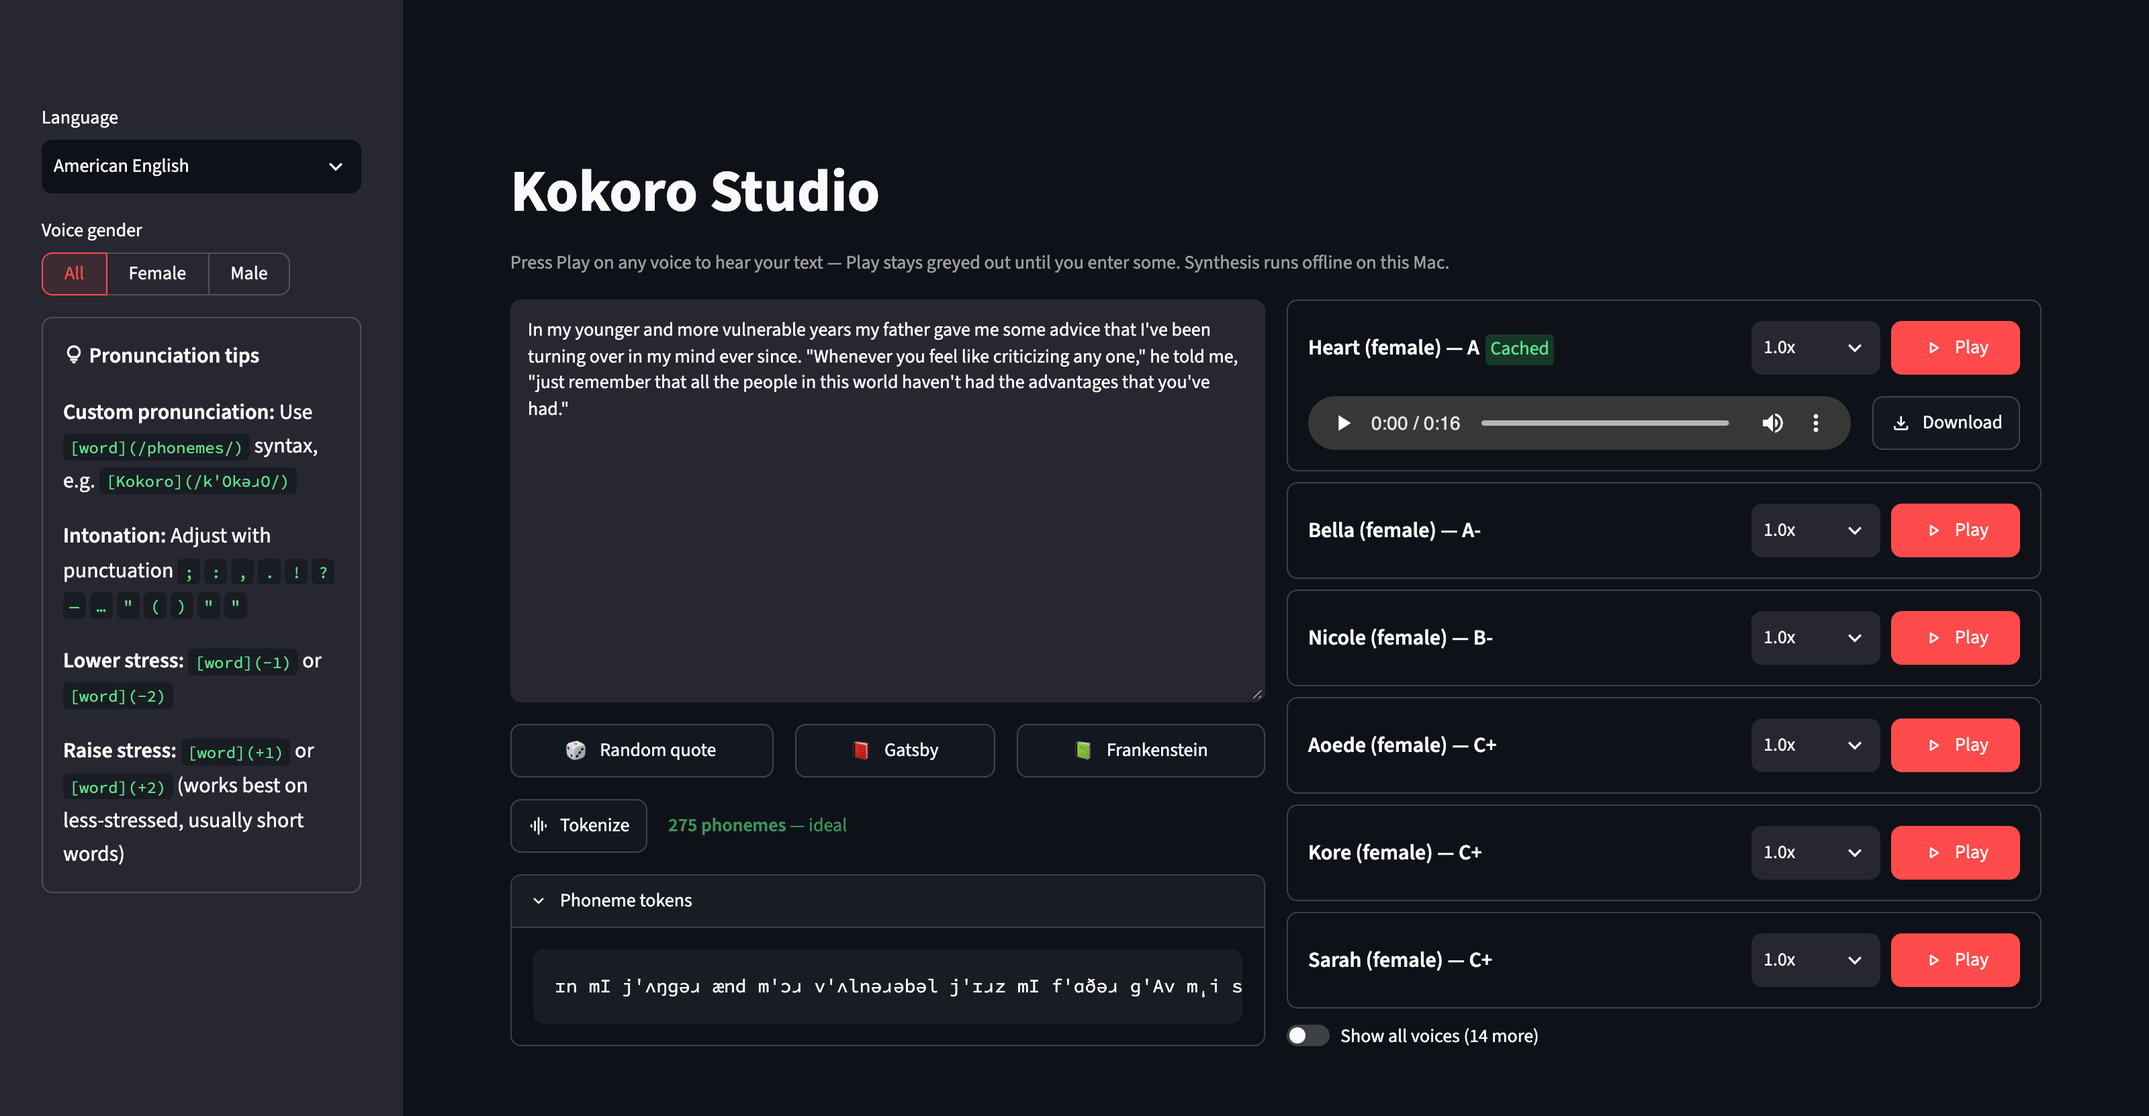
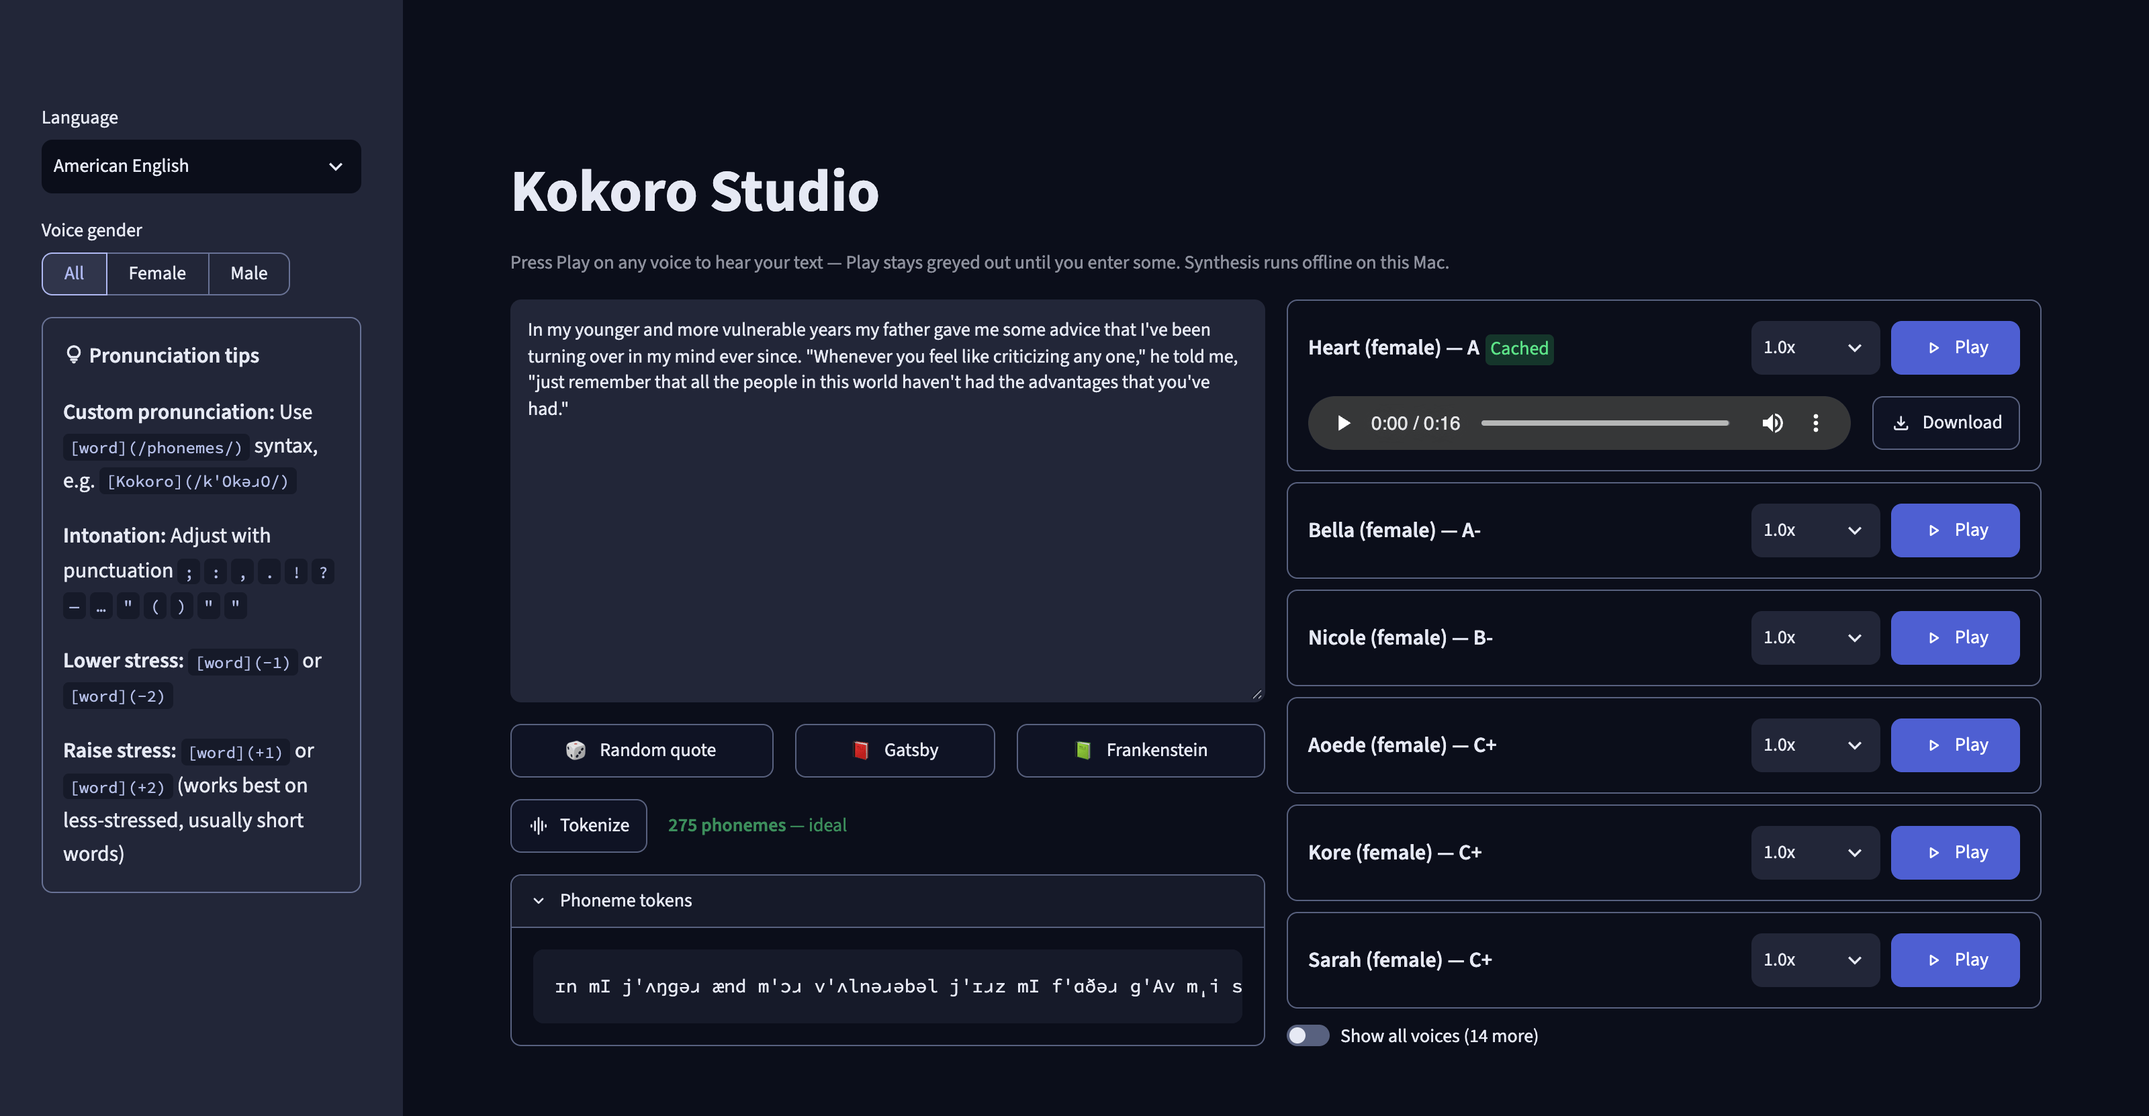
feat: add an indigo dark theme
The app shipped no theme, so dark mode was Streamlit's stock palette.
Measured in a real browser, stock dark has four contrast failures: the
Play label on #ff4b4b is 3.3:1, the card borders and the "Show all
voices" toggle's off-state track are 1.81:1, and the red length-caption
band ("very short" / "will be chunked") draws at 3.14:1. That last one
is only visible once st.caption's 0.6 opacity is counted; the CSS
colour on its own reads 11:1.

"Ai-iro" is an indigo palette set in [theme.dark] and
[theme.dark.sidebar] only. It has an indigo-black page, a slate-indigo
sidebar and surfaces, cool off-white text, and a #4e5fd2 accent. The
Play label is now 5.4:1, borders and the toggle track 3.14:1, and the
red band 4.67:1 as drawn. Inline code moves from green to pale indigo,
so green now only means status. It was picked from four rendered
directions scored by a three-lens judge panel. It carries on the
retired "Kokoro indigo", and it is the only direction whose contrast
can be tested from the TOML alone.

- The sidebar takes a lighter periwinkle accent. The selected segment
  draws its label in the primary colour, and on a near-black page no
  single colour gives both a white Play label and primary-coloured
  text 4.5:1 (the ceiling is about 4.2:1).
- Light mode stays stock. Streamlit's docs say the mode menu needs both
  [theme.light] and [theme.dark], but the 1.64 frontend builds every
  variant when either one is non-empty. A browser render confirmed the
[…]

diff --git a/tests/test_streamlit_app.py b/tests/test_streamlit_app.py
@@ -2519,10 +2519,50 @@ class TestNextAudioSeq:
 
 
 class TestStreamlitConfig:
-    """Guard the shipped .streamlit/config.toml — both the disabled file watcher
-    and the deliberately absent [theme] section. This docstring is the one
+    """Guard the shipped .streamlit/config.toml: the disabled file watcher, the
+    telemetry opt-out, and the "Ai-iro" dark theme. This docstring is the one
     authoritative statement of the theming decision; config.toml and CLAUDE.md
-    point here rather than restating it."""
+    point here rather than restating it.
+
+    **Dark mode only.** Streamlit 1.64's frontend builds its Light/Dark/System
+    variants whenever *either* [theme.light] or [theme.dark] is non-empty (not
+    only when both are), and fills every unset key from that mode's stock base.
+    So a lone [theme.dark] keeps the mode menu and leaves light mode on the
+    stock theme with nothing hand-copied: a browser render compared every
+    probed light-mode colour with the no-theme build and found them identical.
+    A root [theme] key would restyle light mode too, and a bare [theme] block
+    pins the app to one mode with no error. No font keys either: Streamlit
+    self-hosts its default fonts, and a Google Fonts URL is an outbound request
+    on every page load, which breaks README's "no network calls".
+
+    **Two accents, one hue.** Primary buttons (Play) always draw a white label
+    on `primaryColor`, and the selected "Voice gender" segment draws its label
+    *in* `primaryColor`. On a near-black page no single colour clears 4.5:1 for
+    both (the ceiling is about 4.2:1). The sidebar has no primary buttons, so
+    [theme.dark.sidebar] carries a lighter periwinkle of the main indigo.
+
+    **The page colours are pinned on purpose.** Every contrast pair below can
+    then be computed from this file alone. Leaving them unset would track
+    Streamlit's stock dark palette, but these tests could then check nothing
+    without hand-copying that palette, which drifts across releases.
+
+    Measured facts the maths relies on (Streamlit 1.64, pixel-sampled):
+    captions draw at opacity 0.6; the sidebar's background is
+    `secondaryBackgroundColor` unless [theme.dark.sidebar] sets its own; the
+    selected segment fills with its primary at 10% alpha; and `borderColor` is
+    also the st.toggle off-state track, so it must meet WCAG 1.4.11's 3:1.
+    `orangeTextColor` and `greenTextColor` stay stock and measured 4.70 / 4.80
+    as captions on this page; stock red measured 3.14, hence `redTextColor`.
+    Nothing here can see the two stock shades, so re-measure them — and
+    re-confirm the either-block rule and an unchanged light mode — after a
+    Streamlit upgrade.
+    """
+
+    # Every 0.6-opacity pair: the orientation caption, the "speed changed"
+    # caption, and _render_length_caption's colour bands.
+    CAPTION_OPACITY: ClassVar[float] = 0.6
+    # The selected segment's fill is its primary colour at this alpha.
+    SEGMENT_TINT: ClassVar[float] = 0.1
 
     @staticmethod
     def _repo_root() -> Path:
@@ -2538,6 +2578,50 @@ class TestStreamlitConfig:
         with path.open("rb") as f:
             return tomllib.load(f)
 
+    def _dark(self) -> dict[str, Any]:
+        return self._load_config()["theme"]["dark"]
+
+    def _sidebar(self) -> dict[str, Any]:
+        """The dark sidebar's effective colours, falling back as Streamlit does."""
+        dark = self._dark()
+        own = dark.get("sidebar", {})
+        return {
+            "backgroundColor": own.get(
+                "backgroundColor", dark["secondaryBackgroundColor"]
+            ),
+            "primaryColor": own.get("primaryColor", dark["primaryColor"]),
+            "borderColor": own.get("borderColor", dark["borderColor"]),
+        }
+
+    @staticmethod
+    def _contrast(fg: str, bg: str, alpha: float = 1.0) -> float:
+        """WCAG 2 contrast ratio of `fg`, drawn at `alpha` over `bg`."""
+
+        def rgb(hex_color: str) -> tuple[int, ...]:
+            h = hex_color.lstrip("#")
+            return tuple(int(h[i : i + 2], 16) for i in (0, 2, 4))
+
+        def luminance(channels: tuple[float, ...]) -> float:
+            lin = [
+                c / 12.92 if c <= 0.04045 else ((c + 0.055) / 1.055) ** 2.4
+                for c in (v / 255 for v in channels)
+            ]
+            return 0.2126 * lin[0] + 0.7152 * lin[1] + 0.0722 * lin[2]
+
+        back = rgb(bg)
+        drawn = tuple(
+            f * alpha + b * (1 - alpha) for f, b in zip(rgb(fg), back, strict=True)
+        )
+        hi, lo = sorted((luminance(drawn), luminance(back)), reverse=True)
+        return (hi + 0.05) / (lo + 0.05)
+
+    def _tint(self, color: str, over: str, alpha: float) -> str:
+        """`color` composited at `alpha` over `over`, as a hex string."""
+        c = [int(color.lstrip("#")[i : i + 2], 16) for i in (0, 2, 4)]
+        o = [int(over.lstrip("#")[i : i + 2], 16) for i in (0, 2, 4)]
+        mixed = (round(a * alpha + b * (1 - alpha)) for a, b in zip(c, o, strict=True))
+        return "#" + "".join(f"{v:02x}" for v in mixed)
+
     def test_file_watcher_stays_disabled(self) -> None:
         # README's troubleshooting table tells users edits don't auto-reload
         # because of this; it is a server setting, not a theme one.
@@ -2552,24 +2636,68 @@ class TestStreamlitConfig:
         config = self._load_config()
         assert config.get("browser", {}).get("gatherUsageStats") is False
 
-    def test_ships_no_custom_theme(self) -> None:
-        # The app renders in Streamlit's stock light and dark themes, whose
-        # defaults already supply both modes, the toolbar toggle, and the
-        # per-mode red/orange/green that _render_length_caption's bands use.
-        #
-        # This asserts absence deliberately, in the same spirit as
-        # TestReleaseWorkflow.test_tag_triggered_release_workflow_stays_retired:
-        # the decision is that no theme ships, and a *partial* theme is the way
-        # that decision breaks silently — Streamlit keeps the light/dark toggle
-        # only when a custom theme defines both [theme.light] and [theme.dark],
-        # so a bare [theme] block pins the app to one mode with no error. Any
-        # deliberate return to theming updates this test, README's feature list,
-        # and CLAUDE.md's Configuration section together.
-        config = self._load_config()
-        assert "theme" not in config, (
-            "config.toml defines a custom [theme]; the app is meant to render "
-            "in Streamlit's default light and dark themes"
+    def test_only_dark_mode_is_themed(self) -> None:
+        # Any root [theme] key, a [theme.light], or a mode-less [theme.sidebar]
+        # would restyle stock light mode as well.
+        theme = self._load_config().get("theme", {})
+        assert set(theme) == {"dark"}, (
+            f"[theme] may hold only the dark block, found {sorted(theme)}"
         )
+        nested = {k for k, v in theme["dark"].items() if isinstance(v, dict)}
+        assert nested <= {"sidebar"}, f"unexpected sub-tables: {sorted(nested)}"
+
+    def test_theme_loads_nothing_remote(self) -> None:
+        # A font key, or any URL (Google Fonts, a remote `base`), is a network
+        # request on every page load.
+        dark = self._dark()
+        for section in (dark, dark.get("sidebar", {})):
+            for key, value in section.items():
+                assert "font" not in key.lower(), f"font key {key!r} in the theme"
+                assert "://" not in str(value), f"{key} loads {value!r}"
+
+    def test_play_label_reads_on_the_accent(self) -> None:
+        # Streamlit always draws a primary button's label white.
+        assert self._contrast("#ffffff", self._dark()["primaryColor"]) >= 4.5
+
+    def test_accent_and_borders_meet_non_text_contrast(self) -> None:
+        # WCAG 1.4.11: Play's fill and the toggle's on-track are the accent,
+        # and the toggle's off-track is borderColor. The sidebar's segment and
+        # tips-box borders sit on the lighter sidebar, hence their own colour.
+        dark, sidebar = self._dark(), self._sidebar()
+        page = dark["backgroundColor"]
+        assert self._contrast(dark["primaryColor"], page) >= 3.0
+        assert self._contrast(dark["borderColor"], page) >= 3.0
+        assert self._contrast(sidebar["borderColor"], sidebar["backgroundColor"]) >= 3.0
+
+    def test_selected_segment_label_reads_in_the_sidebar(self) -> None:
+        # The selected "Voice gender" segment draws its label in the sidebar
+        # primary, over that same colour at 10% on the sidebar background.
+        sidebar = self._sidebar()
+        fill = self._tint(
+            sidebar["primaryColor"], sidebar["backgroundColor"], self.SEGMENT_TINT
+        )
+        assert self._contrast(sidebar["primaryColor"], fill) >= 4.5
+
+    def test_text_reads_on_every_surface(self) -> None:
+        # Body text gets AAA on the page and AA on the raised surfaces (the
+        # sidebar, the text area). Inline code sits on a background Streamlit
+        # derives between the two, so clearing both bounds it.
+        dark = self._dark()
+        page, raised = dark["backgroundColor"], dark["secondaryBackgroundColor"]
+        assert self._contrast(dark["textColor"], page) >= 7.0
+        assert self._contrast(dark["textColor"], raised) >= 4.5
+        for surface in (page, raised):
+            assert self._contrast(dark["codeTextColor"], surface) >= 4.5
+
+    def test_captions_read_at_their_drawn_opacity(self) -> None:
+        # Captions draw at 0.6 opacity, so their CSS colour overstates the
+        # contrast actually shown. Stock redTextColor drew the "very short" and
+        # "will be chunked" bands at 3.14:1, which is why the key is set.
+        dark = self._dark()
+        page = dark["backgroundColor"]
+        assert "redTextColor" in dark, "stock red draws captions at ~3.1:1"
+        for key in ("textColor", "redTextColor"):
+            assert self._contrast(dark[key], page, self.CAPTION_OPACITY) >= 4.5, key
 
 
 class TestProjectMetadata:

diff --git a/scripts/capture_screenshot.py b/scripts/capture_screenshot.py
@@ -11,8 +11,9 @@ This is a script rather than a paragraph of instructions because all nine ways
 it goes wrong produce a *plausible but wrong image* instead of an error:
 
 * `embed_options=dark_theme` is a no-op, so dark mode is forced by emulating the
-  browser's colour scheme. That is also the honest path: the app ships no theme
-  and follows the system setting, so this is what a dark-mode user really sees.
+  browser's colour scheme. That is also the honest path: the app follows the
+  system setting (only its dark theme is custom), so this is what a dark-mode
+  user really sees.
 * Chrome's own `--headless --screenshot --virtual-time-budget` captures the
   skeleton loader — virtual time advances timers but never Streamlit's websocket
   handshake. Every wait below is therefore on a real selector.

diff --git a/CLAUDE.md b/CLAUDE.md
@@ -50,11 +50,13 @@ Changing the pin makes the next `uv sync` rebuild the venv, which discards the ~
 
 `pyproject.toml` — project metadata, dependencies, dependency groups, ruff isort (`combine-as-imports`), pytest (`pythonpath`, `testpaths`), ty (`python-version = "3.12"`).
 
-`.streamlit/config.toml` — `[server] fileWatcherType = "none"` and, deliberately, **no `[theme]` section**: the app renders in Streamlit's stock light and dark themes. `TestStreamlitConfig` guards both settings and is the single authoritative statement of why; don't restate it here or in the config comment. Streamlit's own default palettes live in its frontend bundle, not in `config.py`, so never hand-copy their hex values into this file or these docs — name the option keys instead.
+`.streamlit/config.toml` — `[server] fileWatcherType = "none"`, `[browser] gatherUsageStats = false`, and the **"Ai-iro" dark theme**: a `[theme.dark]` block plus `[theme.dark.sidebar]`, and deliberately nothing else under `[theme]`, so light mode stays Streamlit's stock theme and the System/Light/Dark menu survives. `TestStreamlitConfig` guards every setting and its docstring is the single authoritative statement of why (the two sidebar accents, the pinned page colours, the 0.6 caption opacity); don't restate it here or in the config comment. Streamlit's own default palettes live in its frontend bundle, not in `config.py`, so never hand-copy their hex values into this file or these docs — name the option keys instead. The dark theme pins its own page colours for exactly that reason: its contrast tests compute every pair from the TOML alone.
 
-Two properties of the stock theme are worth knowing before anyone treats them as bugs in this repo. Default `primaryColor` renders **#ff4b4b** (pixel-sampled, not inferred), which is ~3.3:1 against the white button text — below WCAG AA's 4.5:1 for normal text, where the retired indigo was 6.29:1. In light mode that same #ff4b4b is also the default `redColor`, but `_render_length_caption`'s red band is not drawn in it: `:red[…]` text uses `redTextColor`, a separate text shade — darker than `redColor` in light mode and lighter in dark (see that option's description in Streamlit's `config.py`) — so the band never matches the Play buttons. And the stock `st.toggle` ("Show all voices") draws its off-state track at about 1.45:1 against a light page (and against its own white knob), under WCAG 1.4.11's 3:1 for control boundaries; dark mode reads clearly on its 10:1 knob.
+Light mode is the stock theme, and two of its properties are worth knowing before anyone treats them as bugs in this repo. Default `primaryColor` renders **#ff4b4b** (pixel-sampled, not inferred), which is ~3.3:1 against the white button text — below WCAG AA's 4.5:1 for normal text. That same #ff4b4b is also light mode's default `redColor`, but `_render_length_caption`'s red band is not drawn in it: `:red[…]` text uses `redTextColor`, a separate text shade (see that option's description in Streamlit's `config.py`), so the band never matches the Play buttons. And the stock `st.toggle` ("Show all voices") draws its off-state track at about 1.45:1 against a light page, under WCAG 1.4.11's 3:1 for control boundaries. Dark mode clears all of these, and one stock dark had too — its red caption band drew at ~3.1:1 once `st.caption`'s 0.6 opacity is counted, which a CSS-colour check misses. Two dark-mode limits no theme key reaches: every button's focus ring is the primary at 50% alpha (~1.75:1 against the page), and a hovered or focused Play darkens to ~2.1:1 against it while its label stays above 9:1.
 
-> **`gatherUsageStats = false` is what makes the offline claim true — don't drop it.** Streamlit's frontend posts session telemetry to `data.streamlit.io` on every session unless that key is set, and the option **defaults to `true`**, so its mere absence is not safe. With it off, and with no `[theme]` pulling `fonts.googleapis.com` stylesheets, the rendered page issues no outbound requests — the browser half of what README's "no network calls" line and the "Runs offline" badge assert. The server half is `ensure_repo_downloaded` trying the local cache first, then `load_pipeline` loading from the snapshot path and pinning `model.repo_id` (see Key Functions). Re-check after any Streamlit upgrade by loading the app and evaluating `performance.getEntriesByType('resource')` in the console: every host must be `localhost` (Streamlit self-hosts its Source Sans woff2, so a `fonts.googleapis.com` entry means a theme crept back in). (`TestStreamlitConfig.test_usage_stats_stay_off`)
+> **The dark-only block rests on frontend behaviour, not a documented contract.** Streamlit's theming docs still say the mode menu needs *both* `[theme.light]` and `[theme.dark]`; the 1.64 bundle actually builds all three variants when *either* is non-empty and fills unset keys from that mode's stock base. After any Streamlit upgrade, load the app and confirm the ⋮ menu still offers System/Light/Dark and that light mode still matches a build with the theme blocks removed — if either regresses, a lone `[theme.dark]` has silently pinned or restyled light mode.
+
+> **`gatherUsageStats = false` is what makes the offline claim true — don't drop it.** Streamlit's frontend posts session telemetry to `data.streamlit.io` on every session unless that key is set, and the option **defaults to `true`**, so its mere absence is not safe. With it off, and with no theme font pulling `fonts.googleapis.com` stylesheets (`TestStreamlitConfig.test_theme_loads_nothing_remote`), the rendered page issues no outbound requests — the browser half of what README's "no network calls" line and the "Runs offline" badge assert. The server half is `ensure_repo_downloaded` trying the local cache first, then `load_pipeline` loading from the snapshot path and pinning `model.repo_id` (see Key Functions). Re-check after any Streamlit upgrade by loading the app and evaluating `performance.getEntriesByType('resource')` in the console: every host must be `localhost` (Streamlit self-hosts its Source Sans woff2, so a `fonts.googleapis.com` entry means a theme font crept in). (`TestStreamlitConfig.test_usage_stats_stay_off`)
 
 ## CI & Releases
 

diff --git a/README.md b/README.md
@@ -50,7 +50,7 @@ Streamlit application for generating multilingual speech using [Hexgrad Kokoro](
 - Per-card speed control (0.7x–1.5x in 0.1 steps); a green **Cached** badge marks voices with cached audio, and changing speed keeps the previous clip visible until you press Play again.
 - Per-card Download button for the generated WAV.
 - Chunk-by-chunk generation progress while a clip is being synthesized.
-- Light and dark themes with a toolbar toggle.
+- Streamlit's stock light theme and a custom indigo dark theme, switchable from the toolbar menu and following your system setting by default. Dark mode is contrast-checked to WCAG AA: Play labels, the length-caption colours at the opacity they are actually drawn, and every control boundary.
 
 **Privacy & offline**
 
